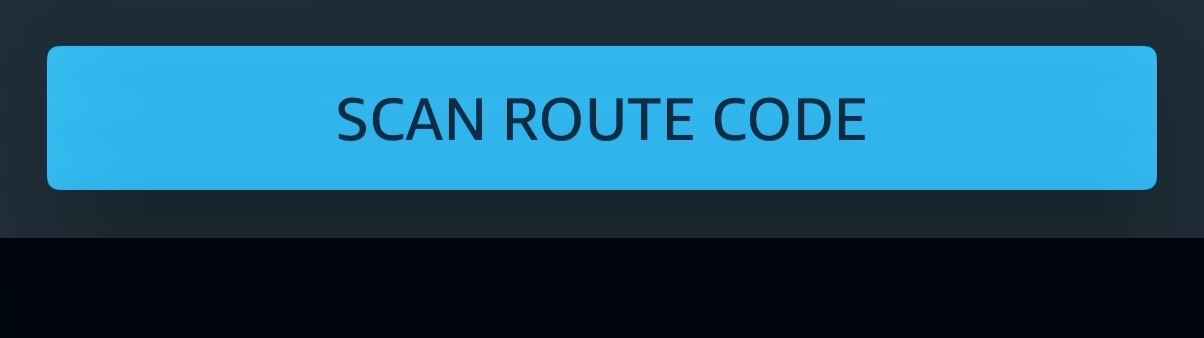
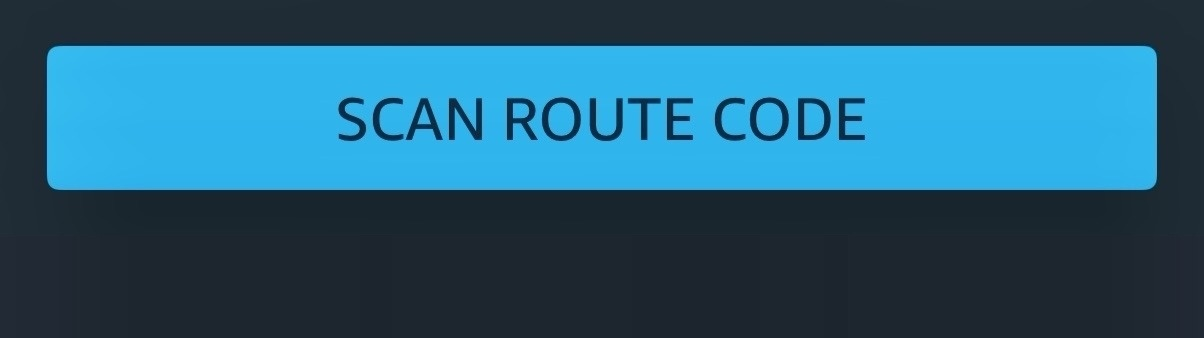
Add files via upload

Changed region(s): [[0.0, 0.6805, 1.0, 1.0]]

diff --git a/styles.css b/styles.css
@@ -36,7 +36,7 @@ body {
 
 #imageStack {
   position: absolute;
-  top: 28px;
+  top: 36px;
   left: 50%;
   width: max(100vw, calc(100dvh * 1204 / 2418));
   height: max(100dvh, calc(100vw * 2418 / 1204));
